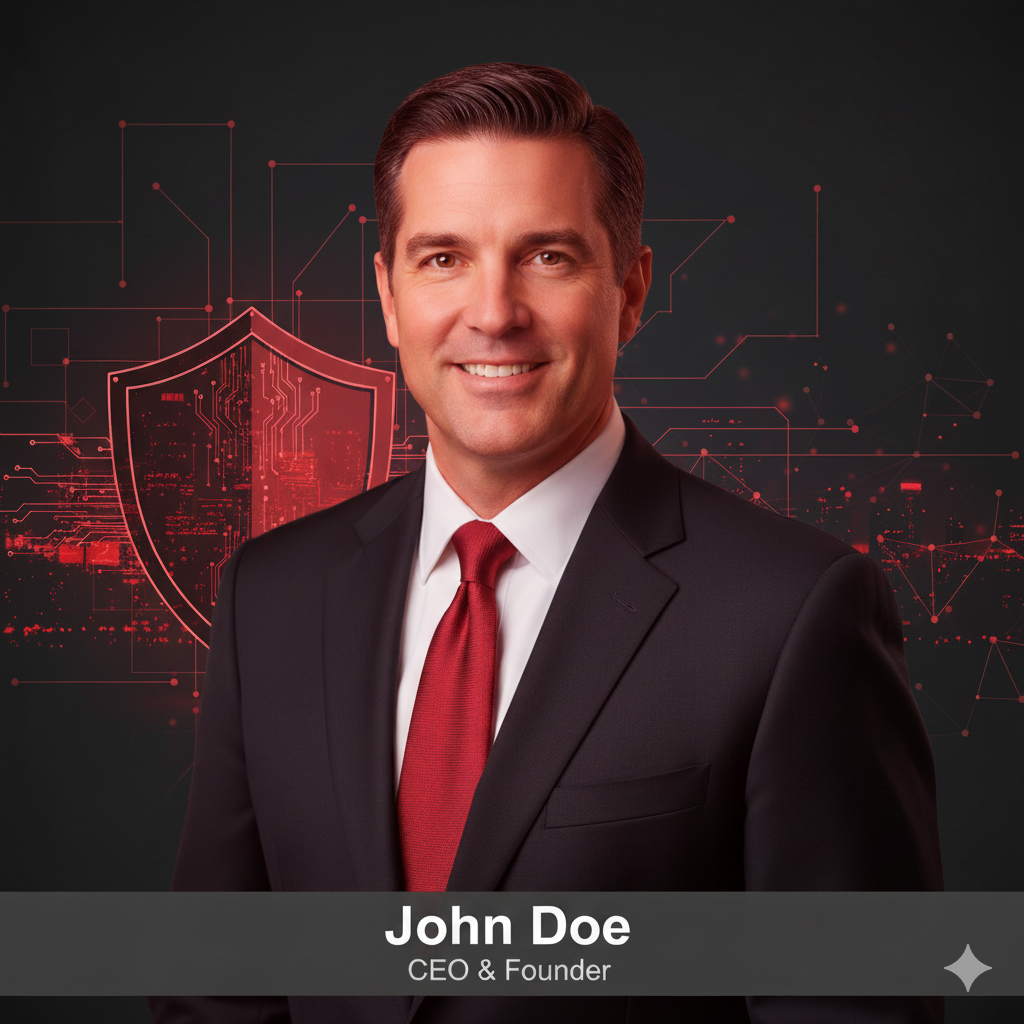
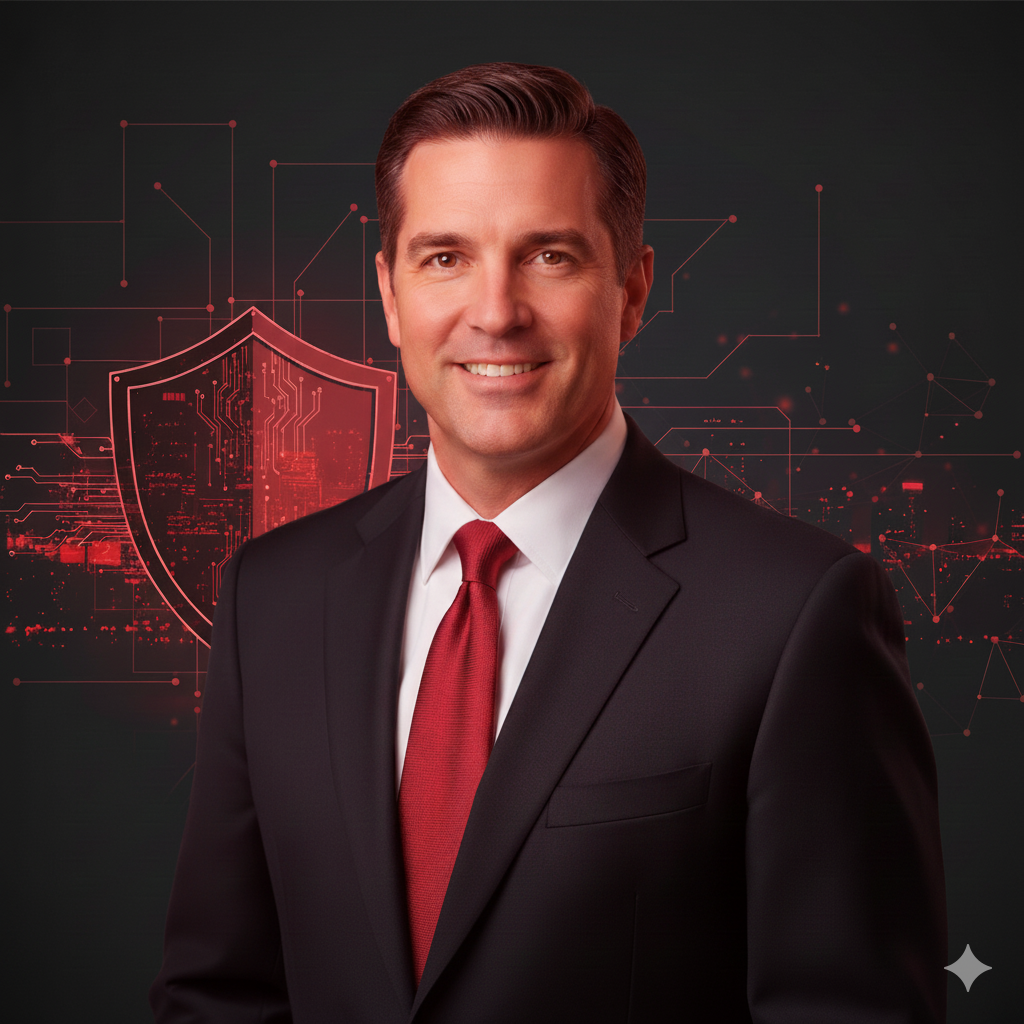
feat:team member changed

diff --git a/index.php b/index.php
@@ -7,7 +7,7 @@ session_start();
 <head>
     <meta charset="UTF-8">
     <meta name="viewport" content="width=device-width, initial-scale=1.0">
-    <title>InRed SecureVault</title>
+    <title>SecureVault X</title>
     <script src="https://cdn.tailwindcss.com"></script>
     <link rel="stylesheet" href="https://rsms.me/inter/inter.css">
     <style>
@@ -24,7 +24,7 @@ session_start();
     <header class="fixed top-0 left-0 right-0 z-20 glassy-nav shadow-md">
         <nav class="container mx-auto px-6 py-4 flex justify-between items-center">
             <a href="index.php">
-                <img src="images/logo.png" alt="InRed SecureVault Logo" class="h-16">
+                <img src="images/logo.png" alt="SecureVault X Logo" class="h-16">
             </a>
             <div>
                 <a href="index.php" class="px-4 text-gray-800 hover:text-red-600">Home</a>
@@ -59,8 +59,8 @@ session_start();
                         <img src="images/about-us.png" alt="About Us" class="rounded-lg shadow-lg">
                     </div>
                     <div class="md:w-1/2 md:pl-12 mt-8 md:mt-0">
-                        <h2 class="text-4xl font-bold mb-4">About InRed SecureVault</h2>
-                        <p class="text-gray-600 leading-relaxed">Founded in 2010, InRed SecureVault has been a leader in providing robust and secure digital solutions. We are a team of passionate security professionals dedicated to safeguarding your valuable data. Our mission is to offer advanced and effective file storage solutions, ensuring your digital assets are always protected and accessible only to you.</p>
+                        <h2 class="text-4xl font-bold mb-4">About SecureVault X</h2>
+                        <p class="text-gray-600 leading-relaxed">Founded in 2010, SecureVault X has been a leader in providing robust and secure digital solutions. We are a team of passionate security professionals dedicated to safeguarding your valuable data. Our mission is to offer advanced and effective file storage solutions, ensuring your digital assets are always protected and accessible only to you.</p>
                     </div>
                 </div>
                 <div class="mt-20">
@@ -68,17 +68,17 @@ session_start();
                     <div class="flex flex-wrap justify-center">
                         <div class="w-full md:w-1/3 p-4 text-center">
                             <img src="images/team-member-1.png" alt="Team Member 1" class="w-32 h-32 rounded-full mx-auto mb-4 shadow-lg">
-                            <h4 class="text-xl font-bold">John Doe</h4>
+                            <h4 class="text-xl font-bold">Ramesh Kumar Singh</h4>
                             <p class="text-gray-600">CEO & Founder</p>
                         </div>
                         <div class="w-full md:w-1/3 p-4 text-center">
                             <img src="images/team-member-2.png" alt="Team Member 2" class="w-32 h-32 rounded-full mx-auto mb-4 shadow-lg">
-                            <h4 class="text-xl font-bold">Jane Smith</h4>
+                            <h4 class="text-xl font-bold">Smriti Rai</h4>
                             <p class="text-gray-600">Head of Security</p>
                         </div>
                         <div class="w-full md:w-1/3 p-4 text-center">
                             <img src="images/team-member-3.png" alt="Team Member 3" class="w-32 h-32 rounded-full mx-auto mb-4 shadow-lg">
-                            <h4 class="text-xl font-bold">Peter Jones</h4>
+                            <h4 class="text-xl font-bold">Amit Kumar</h4>
                             <p class="text-gray-600">Lead Penetration Tester</p>
                         </div>
                     </div>
@@ -117,7 +117,7 @@ session_start();
 
         <section id="features" class="py-20 bg-white">
             <div class="container mx-auto px-6">
-                <h2 class="text-4xl font-bold text-center mb-12">Why Choose InRed SecureVault?</h2>
+                <h2 class="text-4xl font-bold text-center mb-12">Why Choose SecureVault X?</h2>
                 <div class="grid grid-cols-1 md:grid-cols-2 lg:grid-cols-3 gap-8">
                     <div class="bg-gray-50 rounded-lg shadow-lg p-8 text-center">
                         <svg class="w-16 h-16 mx-auto mb-6 text-red-600" fill="none" stroke="currentColor" viewBox="0 0 24 24" xmlns="http://www.w3.org/2000/svg"><path stroke-linecap="round" stroke-linejoin="round" stroke-width="2" d="M9 12l2 2 4-4m5.618-4.016A11.955 11.955 0 0112 2.944a11.955 11.955 0 01-8.618 3.04A12.02 12.02 0 003 9c0 5.591 3.824 10.29 9 11.622 5.176-1.332 9-6.03 9-11.622 0-1.042-.133-2.052-.382-3.016z"></path></svg>
@@ -144,7 +144,7 @@ session_start();
             <div class="flex flex-wrap">
                 <div class="w-full md:w-1/4 mb-8 md:mb-0">
                     <a href="index.php">
-                        <img src="images/logo.png" alt="InRed SecureVault Logo" class="h-16 mb-4">
+                        <img src="images/logo.png" alt="SecureVault X Logo" class="h-16 mb-4">
                     </a>
                     <p class="text-gray-400">Your trusted partner in data security.</p>
                 </div>
@@ -176,7 +176,7 @@ session_start();
                 </div>
             </div>
             <div class="mt-8 border-t border-gray-700 pt-8 text-center">
-                <p>&copy; 2025 InRed SecureVault. All Rights Reserved.</p>
+                <p>&copy; 2025 SecureVault X. All Rights Reserved.</p>
             </div>
         </div>
     </footer>

diff --git a/filestorage.php b/filestorage.php
@@ -94,7 +94,7 @@ if(isset($_GET['delete']) && isset($_GET['file_id'])){
 <head>
     <meta charset="UTF-8">
     <meta name="viewport" content="width=device-width, initial-scale=1.0">
-    <title>File Storage - InRed SecureVault</title>
+    <title>File Storage - SecureVault X</title>
     <script src="https://cdn.tailwindcss.com"></script>
     <link rel="stylesheet" href="https://rsms.me/inter/inter.css">
     <style>
@@ -111,7 +111,7 @@ if(isset($_GET['delete']) && isset($_GET['file_id'])){
     <header class="fixed top-0 left-0 right-0 z-20 glassy-nav shadow-md">
         <nav class="container mx-auto px-6 py-4 flex justify-between items-center">
             <a href="index.php">
-                <img src="images/logo.png" alt="InRed SecureVault Logo" class="h-16">
+                <img src="images/logo.png" alt="SecureVault X Logo" class="h-16">
             </a>
             <div>
                 <a href="index.php" class="px-4 text-gray-800 hover:text-red-600">Home</a>
@@ -196,7 +196,7 @@ if(isset($_GET['delete']) && isset($_GET['file_id'])){
             <div class="flex flex-wrap">
                 <div class="w-full md:w-1/4 mb-8 md:mb-0">
                     <a href="index.php">
-                        <img src="images/logo.png" alt="InRed SecureVault Logo" class="h-12 mb-4">
+                        <img src="images/logo.png" alt="SecureVault X Logo" class="h-12 mb-4">
                     </a>
                     <p class="text-gray-400">Your trusted partner in data security.</p>
                 </div>
@@ -228,7 +228,7 @@ if(isset($_GET['delete']) && isset($_GET['file_id'])){
                 </div>
             </div>
             <div class="mt-8 border-t border-gray-700 pt-8 text-center">
-                <p>&copy; 2025 InRed SecureVault. All Rights Reserved.</p>
+                <p>&copy; 2025 SecureVault X. All Rights Reserved.</p>
             </div>
         </div>
     </footer>

diff --git a/contact.php b/contact.php
@@ -22,7 +22,7 @@ if(isset($_POST['submit'])){
 <head>
     <meta charset="UTF-8">
     <meta name="viewport" content="width=device-width, initial-scale=1.0">
-    <title>Contact Us - InRed SecureVault</title>
+    <title>Contact Us - SecureVault X</title>
     <script src="https://cdn.tailwindcss.com"></script>
     <link rel="stylesheet" href="https://rsms.me/inter/inter.css">
     <style>
@@ -39,7 +39,7 @@ if(isset($_POST['submit'])){
     <header class="fixed top-0 left-0 right-0 z-20 glassy-nav shadow-md">
         <nav class="container mx-auto px-6 py-4 flex justify-between items-center">
             <a href="index.php">
-                <img src="images/logo.png" alt="InRed SecureVault Logo" class="h-16">
+                <img src="images/logo.png" alt="SecureVault X Logo" class="h-16">
             </a>
             <div>
                 <a href="index.php" class="px-4 text-gray-800 hover:text-red-600">Home</a>
@@ -84,7 +84,7 @@ if(isset($_POST['submit'])){
             <div class="flex flex-wrap">
                 <div class="w-full md:w-1/4 mb-8 md:mb-0">
                     <a href="index.php">
-                        <img src="images/logo.png" alt="InRed SecureVault Logo" class="h-16 mb-4">
+                        <img src="images/logo.png" alt="SecureVault X Logo" class="h-16 mb-4">
                     </a>
                     <p class="text-gray-400">Your trusted partner in data security.</p>
                 </div>
@@ -116,7 +116,7 @@ if(isset($_POST['submit'])){
                 </div>
             </div>
             <div class="mt-8 border-t border-gray-700 pt-8 text-center">
-                <p>&copy; 2025 InRed SecureVault. All Rights Reserved.</p>
+                <p>&copy; 2025 SecureVault X. All Rights Reserved.</p>
             </div>
         </div>
     </footer>

diff --git a/blog.php b/blog.php
@@ -21,7 +21,7 @@ $result = $conn->query($sql);
 <head>
     <meta charset="UTF-8">
     <meta name="viewport" content="width=device-width, initial-scale=1.0">
-    <title>Blog - InRed SecureVault</title>
+    <title>Blog - SecureVault X</title>
     <script src="https://cdn.tailwindcss.com"></script>
     <link rel="stylesheet" href="https://rsms.me/inter/inter.css">
     <style>
@@ -38,7 +38,7 @@ $result = $conn->query($sql);
     <header class="fixed top-0 left-0 right-0 z-20 glassy-nav shadow-md">
         <nav class="container mx-auto px-6 py-4 flex justify-between items-center">
             <a href="index.php">
-                <img src="images/logo.png" alt="InRed SecureVault Logo" class="h-16">
+                <img src="images/logo.png" alt="SecureVault X Logo" class="h-16">
             </a>
             <div>
                 <a href="index.php" class="px-4 text-gray-800 hover:text-red-600">Home</a>
@@ -88,7 +88,7 @@ $result = $conn->query($sql);
             <div class="flex flex-wrap">
                 <div class="w-full md:w-1/4 mb-8 md:mb-0">
                     <a href="index.php">
-                        <img src="images/logo.png" alt="InRed SecureVault Logo" class="h-16 mb-4">
+                        <img src="images/logo.png" alt="SecureVault X Logo" class="h-16 mb-4">
                     </a>
                     <p class="text-gray-400">Your trusted partner in data security.</p>
                 </div>
@@ -120,7 +120,7 @@ $result = $conn->query($sql);
                 </div>
             </div>
             <div class="mt-8 border-t border-gray-700 pt-8 text-center">
-                <p>&copy; 2025 InRed SecureVault. All Rights Reserved.</p>
+                <p>&copy; 2025 SecureVault X. All Rights Reserved.</p>
             </div>
         </div>
     </footer>

diff --git a/profile.php b/profile.php
@@ -22,7 +22,7 @@ if($result->num_rows > 0){
 <head>
     <meta charset="UTF-8">
     <meta name="viewport" content="width=device-width, initial-scale=1.0">
-    <title>Profile - InRed SecureVault</title>
+    <title>Profile - SecureVault X</title>
     <script src="https://cdn.tailwindcss.com"></script>
     <link rel="stylesheet" href="https://rsms.me/inter/inter.css">
     <style>
@@ -39,7 +39,7 @@ if($result->num_rows > 0){
     <header class="fixed top-0 left-0 right-0 z-20 glassy-nav shadow-md">
         <nav class="container mx-auto px-6 py-4 flex justify-between items-center">
             <a href="index.php">
-                <img src="images/logo.png" alt="InRed SecureVault Logo" class="h-16">
+                <img src="images/logo.png" alt="SecureVault X Logo" class="h-16">
             </a>
             <div>
                 <a href="index.php" class="px-4 text-gray-800 hover:text-red-600">Home</a>
@@ -205,7 +205,7 @@ if($result->num_rows > 0){
             <div class="flex flex-wrap">
                 <div class="w-full md:w-1/4 mb-8 md:mb-0">
                     <a href="index.php">
-                        <img src="images/logo.png" alt="InRed SecureVault Logo" class="h-16 mb-4">
+                        <img src="images/logo.png" alt="SecureVault X Logo" class="h-16 mb-4">
                     </a>
                     <p class="text-gray-400">Your trusted partner in data security.</p>
                 </div>
@@ -237,7 +237,7 @@ if($result->num_rows > 0){
                 </div>
             </div>
             <div class="mt-8 border-t border-gray-700 pt-8 text-center">
-                <p>&copy; 2025 InRed SecureVault. All Rights Reserved.</p>
+                <p>&copy; 2025 SecureVault X. All Rights Reserved.</p>
             </div>
         </div>
     </footer>

diff --git a/register.php b/register.php
@@ -7,7 +7,7 @@ session_start();
 <head>
     <meta charset="UTF-8">
     <meta name="viewport" content="width=device-width, initial-scale=1.0">
-    <title>Register - InRed SecureVault</title>
+    <title>Register - SecureVault X</title>
     <script src="https://cdn.tailwindcss.com"></script>
     <link rel="stylesheet" href="https://rsms.me/inter/inter.css">
     <style>
@@ -24,7 +24,7 @@ session_start();
     <header class="fixed top-0 left-0 right-0 z-20 glassy-nav shadow-md">
         <nav class="container mx-auto px-6 py-4 flex justify-between items-center">
             <a href="index.php">
-                <img src="images/logo.png" alt="InRed SecureVault Logo" class="h-16">
+                <img src="images/logo.png" alt="SecureVault X Logo" class="h-16">
             </a>
             <div>
                 <a href="index.php" class="px-4 text-gray-800 hover:text-red-600">Home</a>
@@ -72,7 +72,7 @@ session_start();
             <div class="flex flex-wrap">
                 <div class="w-full md:w-1/4 mb-8 md:mb-0">
                     <a href="index.php">
-                        <img src="images/logo.png" alt="InRed SecureVault Logo" class="h-16 mb-4">
+                        <img src="images/logo.png" alt="SecureVault X Logo" class="h-16 mb-4">
                     </a>
                     <p class="text-gray-400">Your trusted partner in data security.</p>
                 </div>
@@ -104,7 +104,7 @@ session_start();
                 </div>
             </div>
             <div class="mt-8 border-t border-gray-700 pt-8 text-center">
-                <p>&copy; 2025 InRed SecureVault. All Rights Reserved.</p>
+                <p>&copy; 2025 SecureVault X. All Rights Reserved.</p>
             </div>
         </div>
     </footer>

diff --git a/login.php b/login.php
@@ -7,7 +7,7 @@ session_start();
 <head>
     <meta charset="UTF-8">
     <meta name="viewport" content="width=device-width, initial-scale=1.0">
-    <title>Login - InRed SecureVault</title>
+    <title>Login - SecureVault X</title>
     <script src="https://cdn.tailwindcss.com"></script>
     <link rel="stylesheet" href="https://rsms.me/inter/inter.css">
     <style>
@@ -24,7 +24,7 @@ session_start();
     <header class="fixed top-0 left-0 right-0 z-20 glassy-nav shadow-md">
         <nav class="container mx-auto px-6 py-4 flex justify-between items-center">
             <a href="index.php">
-                <img src="images/logo.png" alt="InRed SecureVault Logo" class="h-16">
+                <img src="images/logo.png" alt="SecureVault X Logo" class="h-16">
             </a>
             <div>
                 <a href="index.php" class="px-4 text-gray-800 hover:text-red-600">Home</a>
@@ -65,7 +65,7 @@ session_start();
             <div class="flex flex-wrap">
                 <div class="w-full md:w-1/4 mb-8 md:mb-0">
                     <a href="index.php">
-                        <img src="images/logo.png" alt="InRed SecureVault Logo" class="h-16 mb-4">
+                        <img src="images/logo.png" alt="SecureVault X Logo" class="h-16 mb-4">
                     </a>
                     <p class="text-gray-400">Your trusted partner in data security.</p>
                 </div>
@@ -97,7 +97,7 @@ session_start();
                 </div>
             </div>
             <div class="mt-8 border-t border-gray-700 pt-8 text-center">
-                <p>&copy; 2025 InRed SecureVault. All Rights Reserved.</p>
+                <p>&copy; 2025 SecureVault X. All Rights Reserved.</p>
             </div>
         </div>
     </footer>
